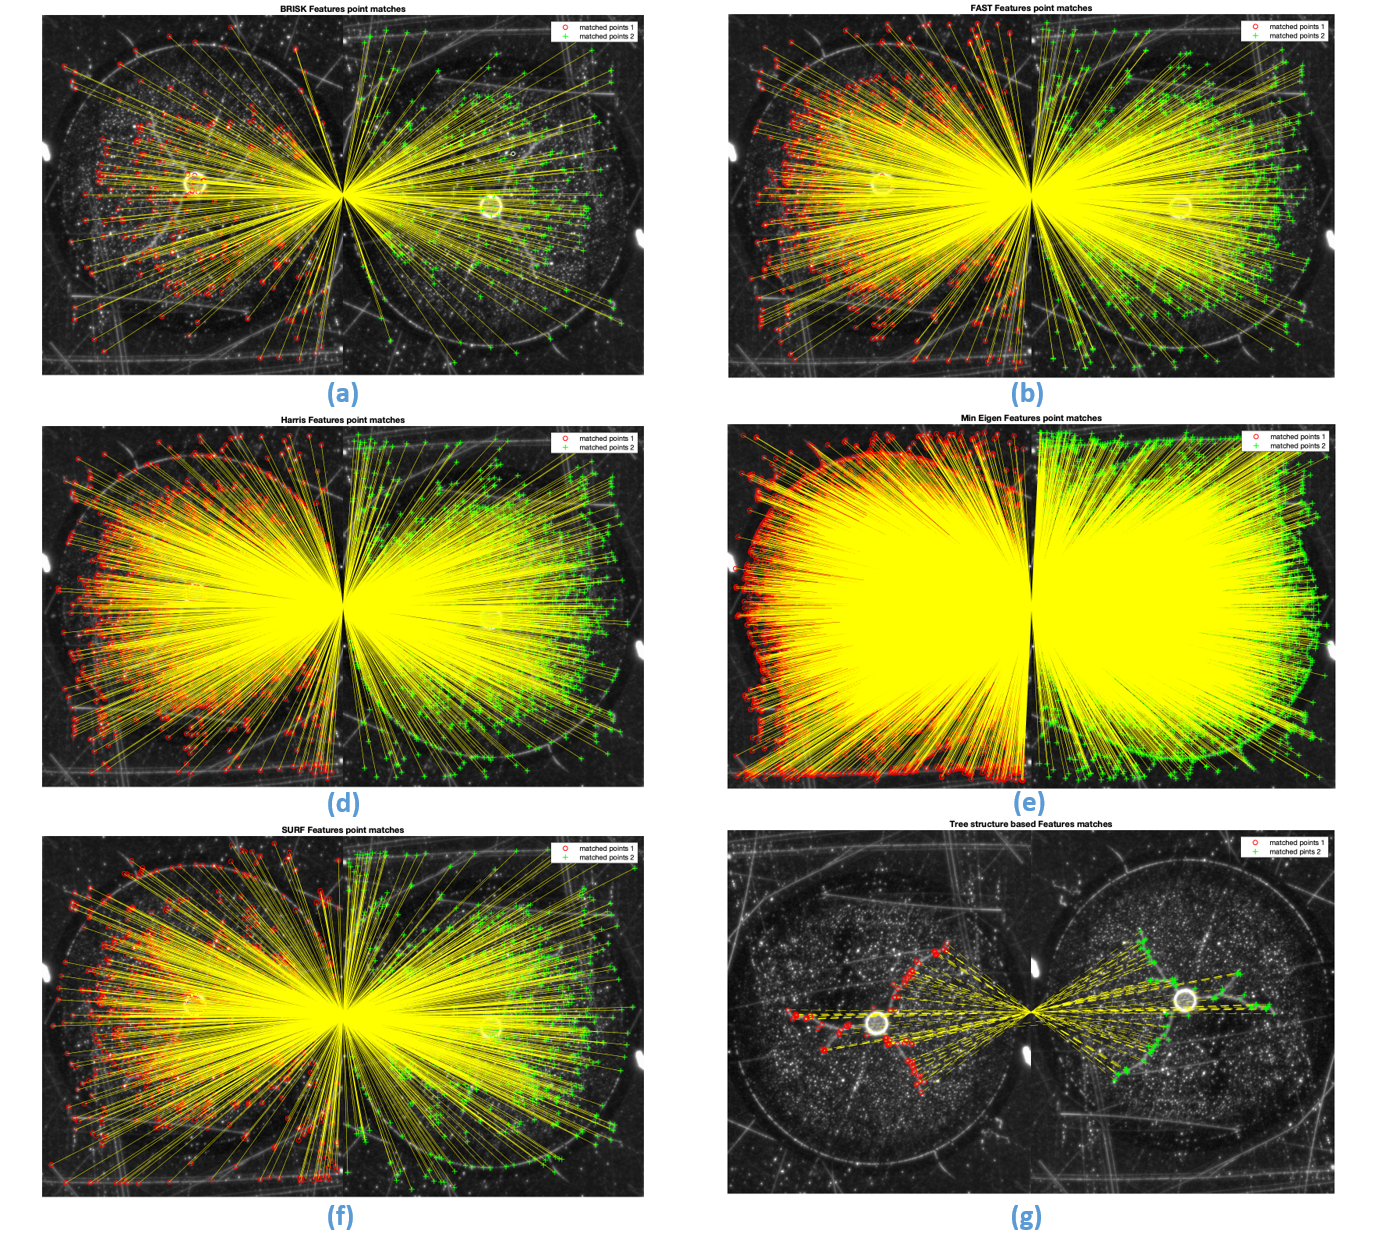
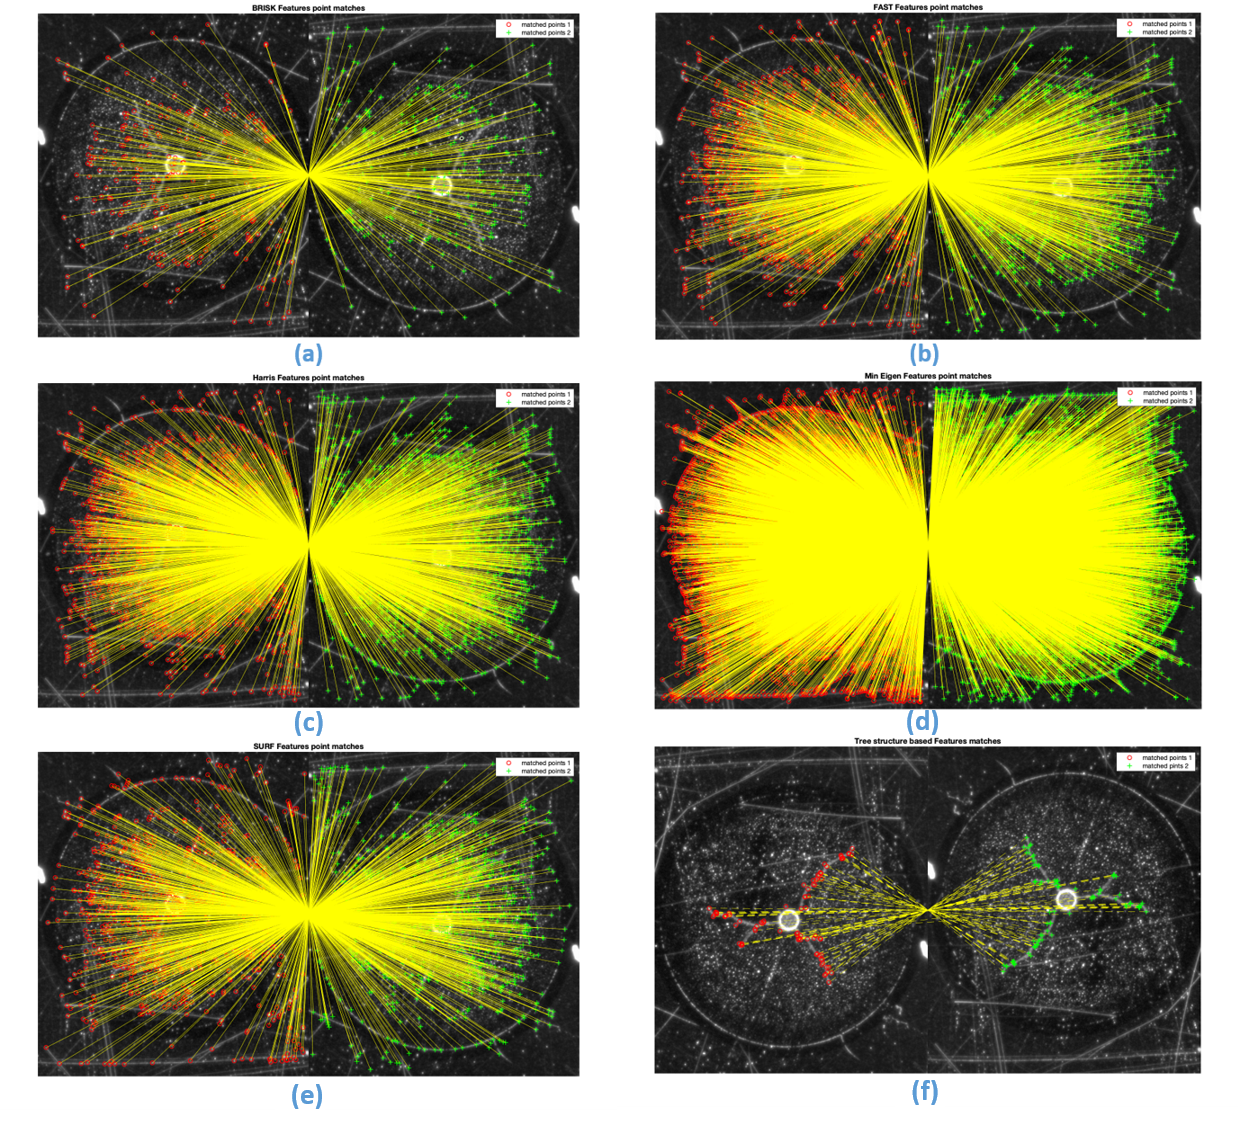
update results-mat

Changed region(s): [[0.0306, 0.0619, 0.4903, 0.9912], [0.521, 0.0619, 0.9806, 0.9912]]

diff --git a/mappingTest.m b/mappingTest.m
@@ -110,7 +110,7 @@ fprintf("the last matchingRate Difference is %d !\n", round((matchingRateDiff*10
 matchingRate = matchingRate + (0.9^iterTimes)*matchingRateDiff;
 iter_mat = [iter_mat, matchingRate];
 
-if (inconsisTestingNum == 0 ||inconsisDataNum == 0 || iterTimes == 4 || matchingRate  > 0.92 || matchingRate == 1)
+if (inconsisTestingNum == 0 ||inconsisDataNum == 0 || iterTimes == 1 || matchingRate  > 0.92 || matchingRate == 1)
     return;
 else
     [ConsistentMatchTree, matchingRate, ConsistentMatchTree2,iter_mat] = mappingTest(InconsistentTree1,...
